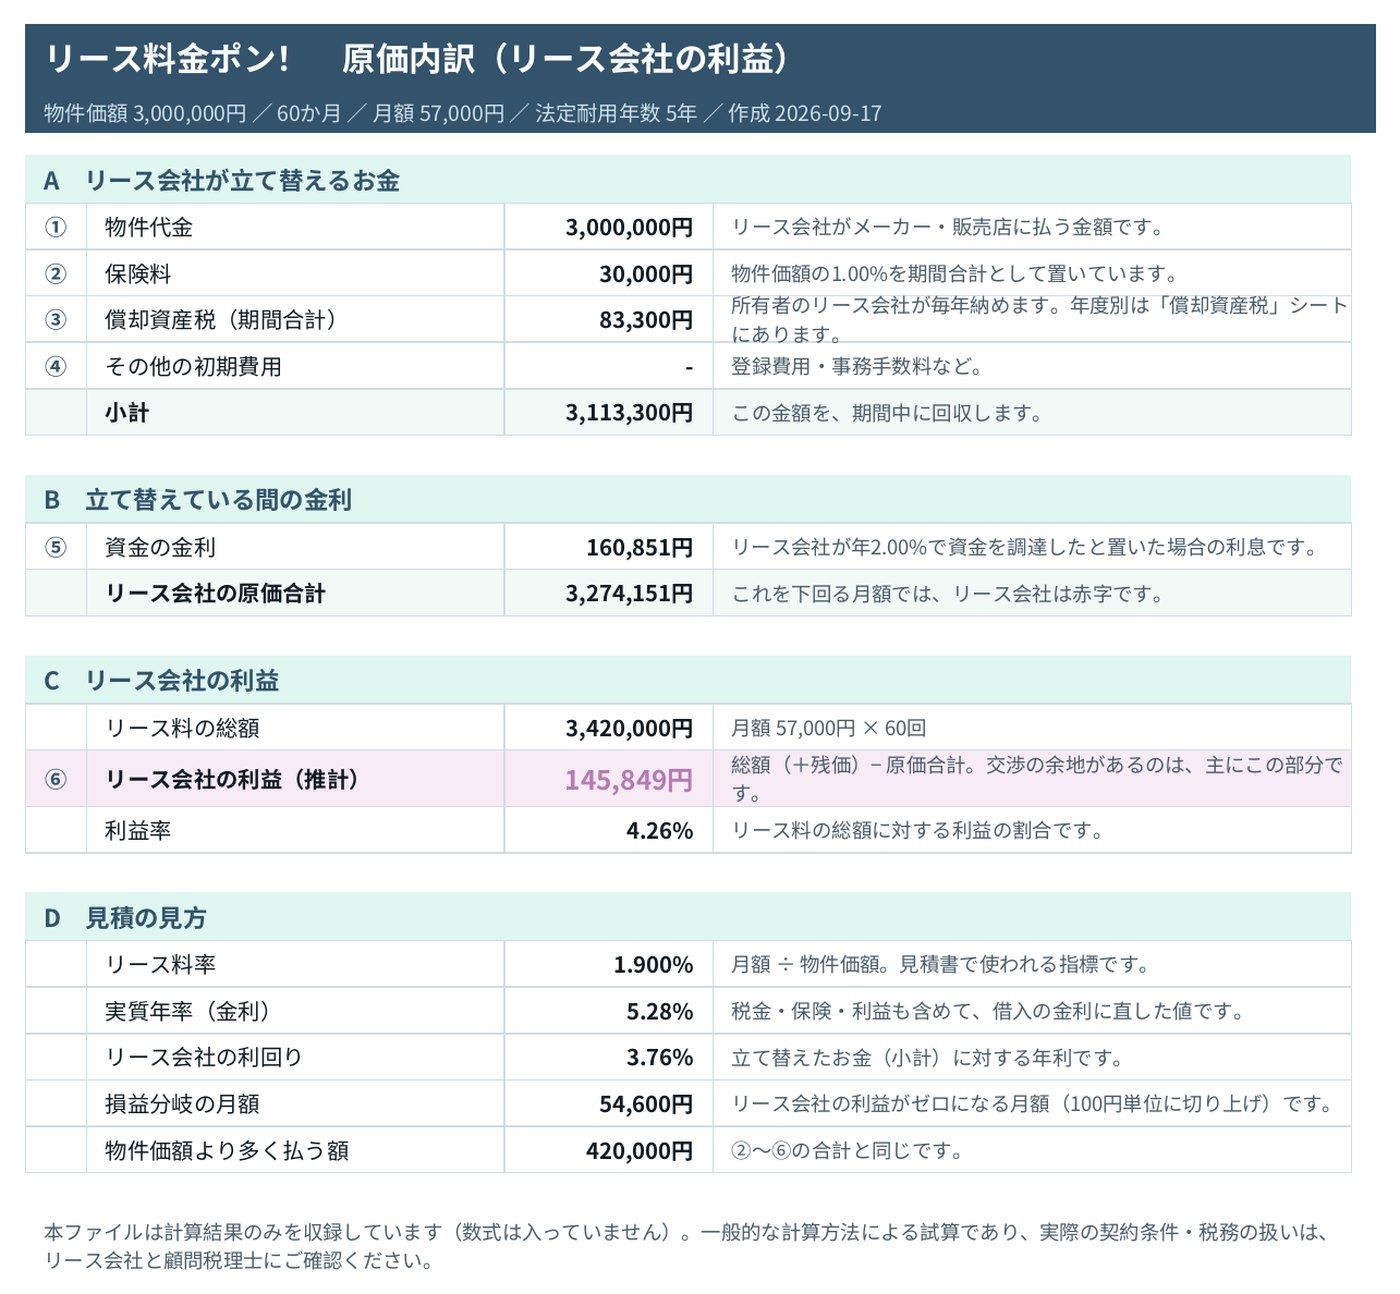
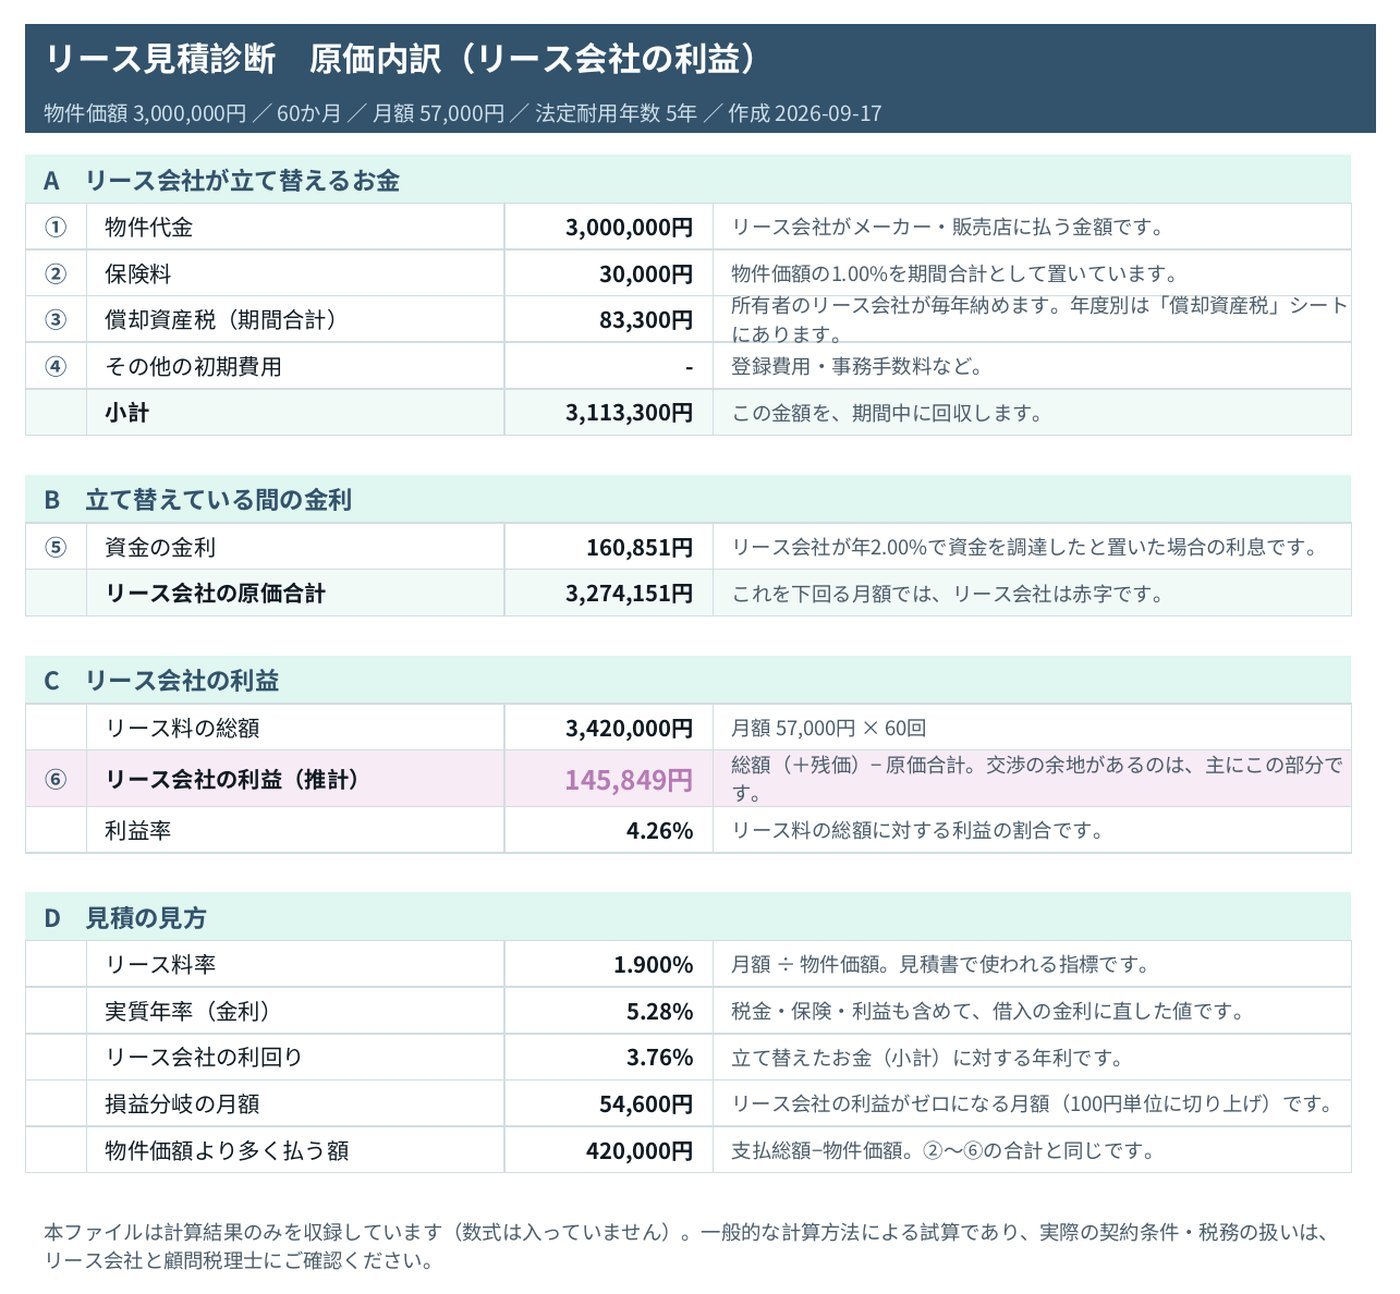
Add files via upload

Changed region(s): [[0.0921, 0.0309, 0.5529, 0.0618], [0.5221, 0.8655, 0.7986, 0.8964]]

diff --git a/lease/index.html b/lease/index.html
@@ -6,11 +6,11 @@
 <meta charset="UTF-8">
 <meta name="viewport" content="width=device-width, initial-scale=1.0">
 <meta name="robots" content="noindex,nofollow,noarchive">
-<title>リース料金ポン！｜リース料の計算と、料率・月額から金利と利益を逆算</title>
-<meta name="description" content="物件価額・期間・金利を入れるだけでリース料を計算。見積の月額やリース料率からは実質年率（金利）を逆算し、残価が設定されていた場合の金利も分かります。リース会社の利益はExcel版で分解できます。無料・登録不要。">
+<title>リース料の計算と逆算｜リース会社の利益まで分かる・Excel版あり</title>
+<meta name="description" content="物件価額・リース期間・金利・残価から月額リース料とリース料率を計算。見積の月額やリース料率からは実質年率（金利）を逆算し、支払総額のうち元本・金利・その他費用の内訳を表示します。リース会社の利益はExcel（エクセル）版で分解できます。無料・登録不要。">
 <meta property="og:type" content="website">
-<meta property="og:title" content="リース料金ポン！｜リース料の計算と、料率・月額から金利と利益を逆算">
-<meta property="og:description" content="物件価額・期間・金利を入れるだけでリース料を計算。見積の月額やリース料率からは実質年率（金利）を逆算し、残価が設定されていた場合の金利も分かります。リース会社の利益はExcel版で分解できます。無料・登録不要。">
+<meta property="og:title" content="リース料の計算と逆算｜リース会社の利益まで分かる・Excel版あり">
+<meta property="og:description" content="物件価額・リース期間・金利・残価から月額リース料とリース料率を計算。見積の月額やリース料率からは実質年率（金利）を逆算し、支払総額のうち元本・金利・その他費用の内訳を表示します。リース会社の利益はExcel（エクセル）版で分解できます。無料・登録不要。">
 <meta property="og:url" content="https://kazumono.com/lease/">
 <meta property="og:image" content="https://kazumono.com/assets/ogp.png">
 <meta property="og:image:width" content="1200">
@@ -230,9 +230,12 @@ h1,h2,h3,h4{font-weight:700}
 input,select,textarea,button{font-weight:600}
 
 /* ======================================================================
- * リース料金ポン！（ここから下は、このページで足した部品）
+ * リース料の計算と逆算／リース見積診断（ここから下は、このページで足した部品）
  * ====================================================================== */
 [hidden]{display:none !important;}
+.headtag{display:flex;align-items:center;gap:10px;margin:0 0 16px;position:relative;}
+.headtag .badge{margin:0;}
+.svcname{font-family:var(--serif);font-size:15px;font-weight:700;letter-spacing:.14em;color:var(--sea-deep);}
 .h1sub{display:block;font-size:.5em;font-weight:600;letter-spacing:.04em;margin-top:12px;color:var(--ink-soft);line-height:1.7;}
 
 /* 使い方の切り替え（大きな2枚のタブ） */
@@ -407,6 +410,7 @@ input,select,textarea,button{font-weight:600}
 .shot__cap{margin:0;padding:12px 16px 16px;font-size:13.5px;line-height:1.8;color:var(--ink);font-weight:500;}
 
 @media (max-width:820px){
+  .h1sub{font-size:.64em;line-height:1.65;}
   .anchor{grid-template-columns:1fr;}
   .qgrid{grid-template-columns:1fr;}
   .get__grid{grid-template-columns:1fr;}
@@ -457,7 +461,8 @@ input,select,textarea,button{font-weight:600}
 {
   "@context": "https://schema.org",
   "@type": "WebApplication",
-  "name": "リース料金ポン！",
+  "name": "リース見積診断",
+  "alternateName": "リース料の計算と逆算",
   "url": "https://kazumono.com/lease/",
   "applicationCategory": "FinanceApplication",
   "operatingSystem": "Web",
@@ -493,8 +498,8 @@ input,select,textarea,button{font-weight:600}
 
       <header class="head">
         <span class="head__mark" aria-hidden="true"></span>
-        <span class="badge">無料</span>
-        <h1>リース料金ポン！<span class="h1sub">料率や月額から、金利とリース会社の利益まで逆算</span></h1>
+        <p class="headtag"><span class="badge">無料</span><span class="svcname">リース見積診断</span></p>
+        <h1>リース料の計算と逆算<span class="h1sub">見積の月額や料率から、実質金利とリース会社の利益まで</span></h1>
         <p>物件価額・期間・金利を入れればリース料を。見積の月額やリース料率を入れれば、実質年率（金利）を。残価が設定されていた場合の金利まで、その場で分かります。</p>
         <span class="head__safe">入力内容は送信されません。すべてブラウザの中で計算します</span>
       </header>
@@ -593,7 +598,7 @@ input,select,textarea,button{font-weight:600}
 
       <!-- ============ 有料版：購入前の案内 ============ -->
       <section class="paid" id="paid" aria-labelledby="paidH" hidden>
-        <span class="paid__badge">グラフ ＋ Excel版</span>
+        <span class="paid__badge">リース見積診断 ／ グラフ＋Excel</span>
         <h2 class="paid__h" id="paidH">この見積には、まだ分かっていないことが5つあります</h2>
         <p class="paid__lead">無料で分かったのは、月額と金利までです。1,000円で、この見積の中身を最後まで開けます。</p>
 
@@ -614,7 +619,7 @@ input,select,textarea,button{font-weight:600}
         <div class="get">
           <h3 class="get__h">1,000円で受け取れるもの</h3>
           <div class="get__grid">
-            <div><b>動かせるグラフ</b><span>このページで、購入した見積のまま。金利や税率を動かして、何度でも比べ直せます。</span></div>
+            <div><b>動かせるグラフ</b><span>最初に開いてから24時間、このページで何度でも。金利や税率を動かして比べ直せます。</span></div>
             <div><b>Excel 7シート</b><span>数式なし・計算結果だけ。A4で印刷して、稟議にそのまま添付できます。</span></div>
           </div>
           <div class="shot">
@@ -647,6 +652,7 @@ input,select,textarea,button{font-weight:600}
             <p class="paid__price"><b>1,000</b><span>円 ／ 見積1件</span></p>
             <button class="btn-run" type="button" id="buy" disabled>近日公開</button>
             <p class="paid__note" id="buyMsg"></p>
+            <p class="paid__note">1回のお支払いで見積1件。最初に開いてから24時間、グラフの操作とExcelのダウンロードが何度でもできます。</p>
           </div>
         </div>
       </section>
@@ -817,13 +823,13 @@ input,select,textarea,button{font-weight:600}
         <p>いずれも見積書には書かれていませんが、聞けば答えてもらえます。<strong>金額の交渉より、この4つを確認するほうが実際の損得に効くことが多い</strong>というのが、見てきた印象です。</p>
 
         <h2>無料版・Excel版・note版の違い</h2>
-        <p>リース料と金利の計算は、すべて無料で何度でも使えます。目の前の見積の中身を知りたいときはグラフ＋Excel版を、数式を自分で動かしながら何件も試したいときはnote版を選んでください。</p>
+        <p>リース料と金利の計算は、すべて無料で何度でも使えます。目の前の見積の中身を知りたいときはリース見積診断（グラフ＋Excel）を、数式を自分で動かしながら何件も試したいときはnote版を選んでください。</p>
         <div class="tw"><table class="cmp">
-          <thead><tr><th></th><th>無料（このページ）</th><th>グラフ＋Excel版（1,000円）</th><th>note版（5,000円）</th></tr></thead>
+          <thead><tr><th></th><th>無料（このページ）</th><th>リース見積診断（1,000円）</th><th>note版（5,000円）</th></tr></thead>
           <tbody>
             <tr><th>分かること</th><td>リース料、実質年率（金利）、残価の影響</td><td>リース会社の利益、割賦・銀行借入・現金との比較、途中解約の残り、年ごとの経費と税金</td><td>リース会社の利益、現金・銀行借入との比較、年ごとの税金と償却（割賦との比較と、動かせるグラフはなし）</td></tr>
             <tr><th>形</th><td>このページ</td><td>このページのグラフ＋Excel 7シート（数式なし）</td><td>数式入りのExcel</td></tr>
-            <tr><th>使える件数</th><td>何度でも</td><td>見積1件</td><td>何件でも</td></tr>
+            <tr><th>使える件数</th><td>何度でも</td><td>見積1件（最初に開いてから24時間）</td><td>何件でも</td></tr>
             <tr><th>向いている人</th><td>まず目安を知りたい</td><td>目の前の見積を、稟議や交渉に使いたい</td><td>見積を比べ続ける人、リース会社の営業・企画</td></tr>
           </tbody>
         </table></div>

diff --git a/lease/xlsx-export.js b/lease/xlsx-export.js
@@ -4,7 +4,7 @@
  * 方針
  *   ・数式を一切書き込まない（値のみ）。数式入りの note 版と役割を分けるため
  *   ・参照表（償却率・減価残存率）や、入力シートは入れない
- *   ・見た目は Web 版（リース料金ポン！）の色に揃える
+ *   ・見た目は Web 版（リース料の計算と逆算／リース見積診断）の色に揃える
  *   ・ブラウザの中で作ってダウンロードする。サーバーには何も送らない
  * ========================================================================== */
 let _ExcelJS = null;
@@ -65,7 +65,7 @@ function sheet(wb, name, title, r, widths, { landscape = false, onePage = false 
   const last = widths.length;
   ws.getRow(1).height = 8;
   ws.getRow(2).height = 30;
-  band(ws, 2, 2, last, `リース料金ポン！　${title}`, { font: font(15, true, C.white), fill: C.deep, border: false });
+  band(ws, 2, 2, last, `リース見積診断　${title}`, { font: font(15, true, C.white), fill: C.deep, border: false });
   ws.getRow(3).height = 20;
   band(ws, 3, 2, last, quoteLine(r), { font: font(9.5, false, C.sub), fill: C.deep, border: false });
   ws.getRow(4).height = 10;
@@ -91,14 +91,17 @@ const FOOT = "本ファイルは計算結果のみを収録しています（数
 
 /* ------------------------------------------------------------ ① ダッシュボード */
 function dashboard(wb, r, figs) {
-  const ws = sheet(wb, "ダッシュボード", "見積の分析", r, [2, ...Array(12).fill(10.5), 2], { onePage: true });
+  const ws = sheet(wb, "ダッシュボード", "ダッシュボード", r, [2, ...Array(12).fill(10.5), 2], { onePage: true });
+  const hasRv = r.input.residual > 0;
   const tiles = [
     ["月額リース料", r.lease.monthly, YEN, "見積の月額（税抜）"],
     ["支払総額", r.lease.total, YEN, "月額 × 支払回数"],
     ["リース料率", r.ratio, PCT3, "月額 ÷ 物件価額"],
     ["実質年率（金利）", r.lesseeRate, PCT2, "借入の金利に直した値"],
     ["リース会社の利益", r.lease.profit, YEN, "推計。前提は下の表"],
-    ["物件価額より多く払う額", r.lease.total + r.input.residual - r.input.price, YEN, "支払総額 − 物件価額"],
+    hasRv
+      ? ["物件価額を超えて回収する額", r.lease.total + r.input.residual - r.input.price, YEN, "支払総額 ＋ 残価 − 物件価額"]
+      : ["物件価額より多く払う額", r.lease.total - r.input.price, YEN, "支払総額 − 物件価額"],
     ["損益分岐の月額", r.lease.breakEven, YEN, "リース会社の利益がゼロになる月額"],
     ["リース会社の利回り", r.lessorYield, PCT2, "立て替えたお金に対する年利"],
   ];
@@ -120,7 +123,7 @@ function dashboard(wb, r, figs) {
     const id = wb.addImage({ base64: g.dataUrl.split(",")[1], extension: "png" });
     ws.addImage(id, { tl: { col, row }, ext: { width: widthPx, height: Math.round(widthPx * g.h / g.w) } });
   };
-  section(ws, 13, 2, 7, "物件価額より多く払う分の中身");
+  section(ws, 13, 2, 7, hasRv ? "物件価額を超えて回収する分の中身（残価を含む）" : "物件価額より多く払う分の中身");
   section(ws, 13, 8, 13, "4つの買い方の比較（税金の効果を含む累計）");
   place("donut", 1.1, 13.3, 420);
   place("compare", 7.1, 13.3, 450);
@@ -183,7 +186,11 @@ function costSheet(wb, r) {
   line("", "実質年率（金利）", r.lesseeRate, PCT2, "税金・保険・利益も含めて、借入の金利に直した値です。");
   line("", "リース会社の利回り", r.lessorYield, PCT2, "立て替えたお金（小計）に対する年利です。");
   line("", "損益分岐の月額", L.breakEven, YEN, "リース会社の利益がゼロになる月額（100円単位に切り上げ）です。");
-  line("", "物件価額より多く払う額", L.total + L.residual - c.price, YEN, "②〜⑥の合計と同じです。");
+  if (L.residual > 0) {
+    line("", "物件価額を超えて回収する額", L.total + L.residual - c.price, YEN, "支払総額＋残価−物件価額。②〜⑥の合計と同じです（支払総額そのものは物件価額より少なくなることがあります）。");
+  } else {
+    line("", "物件価額より多く払う額", L.total - c.price, YEN, "支払総額−物件価額。②〜⑥の合計と同じです。");
+  }
   row++;
   note(ws, row++, 2, 5, FOOT);
   ws.views = [{ showGridLines: false }];
@@ -316,7 +323,7 @@ export async function buildWorkbook(r, figs = [], opts = {}) {
   const ExcelJS = await getExcelJS();
   const wb = new ExcelJS.Workbook();
   wb.creator = "数字のものさし";
-  wb.title = "リース料金ポン！ 見積の分析";
+  wb.title = "リース見積診断";
   wb.created = new Date();
   dashboard(wb, r, figs);
   costSheet(wb, r);
@@ -337,7 +344,7 @@ export async function buildWorkbook(r, figs = [], opts = {}) {
 export async function downloadLeaseXlsx(r, figs, filename) {
   const wb = await buildWorkbook(r, figs);
   const buf = await wb.xlsx.writeBuffer();
-  const name = filename || `リース料金ポン_見積の分析_${r.input.price}円_${r.input.months}か月.xlsx`;
+  const name = filename || `リース見積診断_${r.input.price}円_${r.input.months}か月.xlsx`;
   const url = URL.createObjectURL(new Blob([buf], { type: "application/vnd.openxmlformats-officedocument.spreadsheetml.sheet" }));
   const a = document.createElement("a");
   a.href = url; a.download = name; a.click();

diff --git a/lease/paid.js b/lease/paid.js
@@ -122,7 +122,7 @@ function initShots() {
     stopShotTick();
     if (shotUI.root) shotUI.root.classList.remove("is-auto");
     if (shotUI.play) shotUI.play.remove();
-    console.warn("[財務でポン] 見本の自動切り替えを止めました（タブの手動切り替えは使えます）", err);
+    console.warn("[リース見積診断] 見本の自動切り替えを止めました（タブの手動切り替えは使えます）", err);
   }
 }
 
@@ -447,7 +447,7 @@ function forgetSnap() {
 export function initPaid() {
   P.snap = readSnap();
   renderSamples();
-  try { initShots(); } catch (e) { console.warn("[リース料金ポン] シート見本を動かせませんでした", e); }
+  try { initShots(); } catch (e) { console.warn("[リース見積診断] シート見本を動かせませんでした", e); }
 
   $("lifeChips").addEventListener("click", (e) => {
     const b = e.target.closest("[data-life]"); if (!b) return;
@@ -535,7 +535,7 @@ function paintBuy() {
     msg.textContent = "テスト環境です。支払いなしで、購入後の画面を確かめられます。";
   } else if (payUrlReady()) {
     btn.disabled = false; btn.textContent = "1,000円で購入する";
-    msg.textContent = "購入するのは、この画面の見積（物件価額・期間・月額）1件分です。";
+    msg.textContent = "購入するのは、この画面の見積（物件価額・期間・月額）1件分です。";   // 24時間の案内は、下の固定の文で出す
   } else {
     btn.disabled = true; btn.textContent = "近日公開";
     msg.textContent = "ただいま販売の準備中です。";
@@ -654,7 +654,7 @@ async function onDownload() {
     const r = result();
     const figs = [];
     for (const [key, markup] of [["donut", donutMarkup(r)], ["compare", lineCompare(r)], ["remaining", areaRemaining(r, P.cancelAt)], ["expense", barsExpense(r)]]) {
-      try { figs.push({ key, ...(await toPng(markup)) }); } catch (e) { console.warn("[リース料金ポン] グラフを画像にできませんでした", key, e); }
+      try { figs.push({ key, ...(await toPng(markup)) }); } catch (e) { console.warn("[リース見積診断] グラフを画像にできませんでした", key, e); }
     }
     await downloadLeaseXlsx(r, figs);
     track("lease_download");

diff --git a/lease/viz.js b/lease/viz.js
@@ -58,14 +58,16 @@ export function donutMarkup(r, o = {}) {
   const profit = r.lease.profit;
   body += text(cx, cy - 8, "リース会社の利益", { anchor: "middle", size: cp ? 13 : 12 });
   body += text(cx, cy + 16, `${yen(profit)}円`, { anchor: "middle", size: cp ? 20 : 18, bold: true, fill: profit < 0 ? "#B5623F" : COL.ink });
-  body += text(cx, cy + 36, `多く払う分の${(Math.max(profit, 0) / sum * 100).toFixed(1)}%`, { anchor: "middle", size: cp ? 12 : 11 });
+  // 残価がある見積では、支払総額より「回収する額（残価を含む）」のほうが正しい言い方になる
+  const share = (Math.max(profit, 0) / sum * 100).toFixed(1);
+  body += text(cx, cy + 36, r.input.residual > 0 ? `回収する分の${share}%` : `多く払う分の${share}%`, { anchor: "middle", size: cp ? 12 : 11 });
   parts.forEach((p, i) => {
     const x = cp ? 16 + (i % 2) * 176 : 300, y = cp ? 292 + Math.floor(i / 2) * 46 : 50 + i * 42;
     body += `<rect x="${x}" y="${y - 11}" width="14" height="14" rx="4" fill="${p.c}"/>`;
     body += text(x + 22, y, cp ? p.short : p.label, { size: cp ? 13 : 12.5, fill: COL.ink });
     body += text(x + 22, y + 19, `${yen(p.v)}円`, { size: cp ? 14 : 13, bold: true, fill: COL.ink });
   });
-  return svg(W, H, body, "物件価額より多く払う分の中身");
+  return svg(W, H, body, r.input.residual > 0 ? "物件価額を超えて回収する分の中身（残価を含む）" : "物件価額より多く払う分の中身");
 }
 
 /* ------------------------------------------------------------ 2. 4つの買い方の比較（累計の実質負担） */

diff --git a/lease/app.js b/lease/app.js
@@ -1,5 +1,5 @@
 /* ============================================================================
- * /lease/app.js — リース料金ポン！ 画面の動き
+ * /lease/app.js — リース料の計算と逆算（リース見積診断） 画面の動き
  * 計算は engine.js。ここでは入力を受け取り、結果を描くことだけを担当する。
  *
  * 2つの使い方
@@ -27,14 +27,14 @@ const state = { mode: "calc", residual: 0, unit: "yen" };
 let paid = null, lastQuote = null;
 function notifyPaid(q) {
   lastQuote = q;
-  if (paid) { try { paid.updatePaid(q); } catch (e) { console.warn("[リース料金ポン] 有料版の表示を更新できませんでした", e); } }
+  if (paid) { try { paid.updatePaid(q); } catch (e) { console.warn("[リース見積診断] 有料版の表示を更新できませんでした", e); } }
 }
 function loadPaid() {
   import("./paid.js?v=1").then((m) => {
     m.initPaid();
     paid = m;
     m.updatePaid(lastQuote);
-  }).catch((e) => console.warn("[リース料金ポン] 有料版を読み込めませんでした（無料の計算はそのまま使えます）", e));
+  }).catch((e) => console.warn("[リース見積診断] 有料版を読み込めませんでした（無料の計算はそのまま使えます）", e));
 }
 
 /* ------------------------------------------------------------ 小さな道具 */

diff --git a/lease/license.js b/lease/license.js
@@ -1,5 +1,5 @@
 /* ============================================================================
- * /lease/license.js — 決済確認とロック解除（リース料金ポン！ Excel版）
+ * /lease/license.js — 決済確認とロック解除（リース見積診断）
  *
  * 仕組み:
  *   1. Squareの支払いリンクで決済すると ?transactionId=… を付けて戻ってくる
